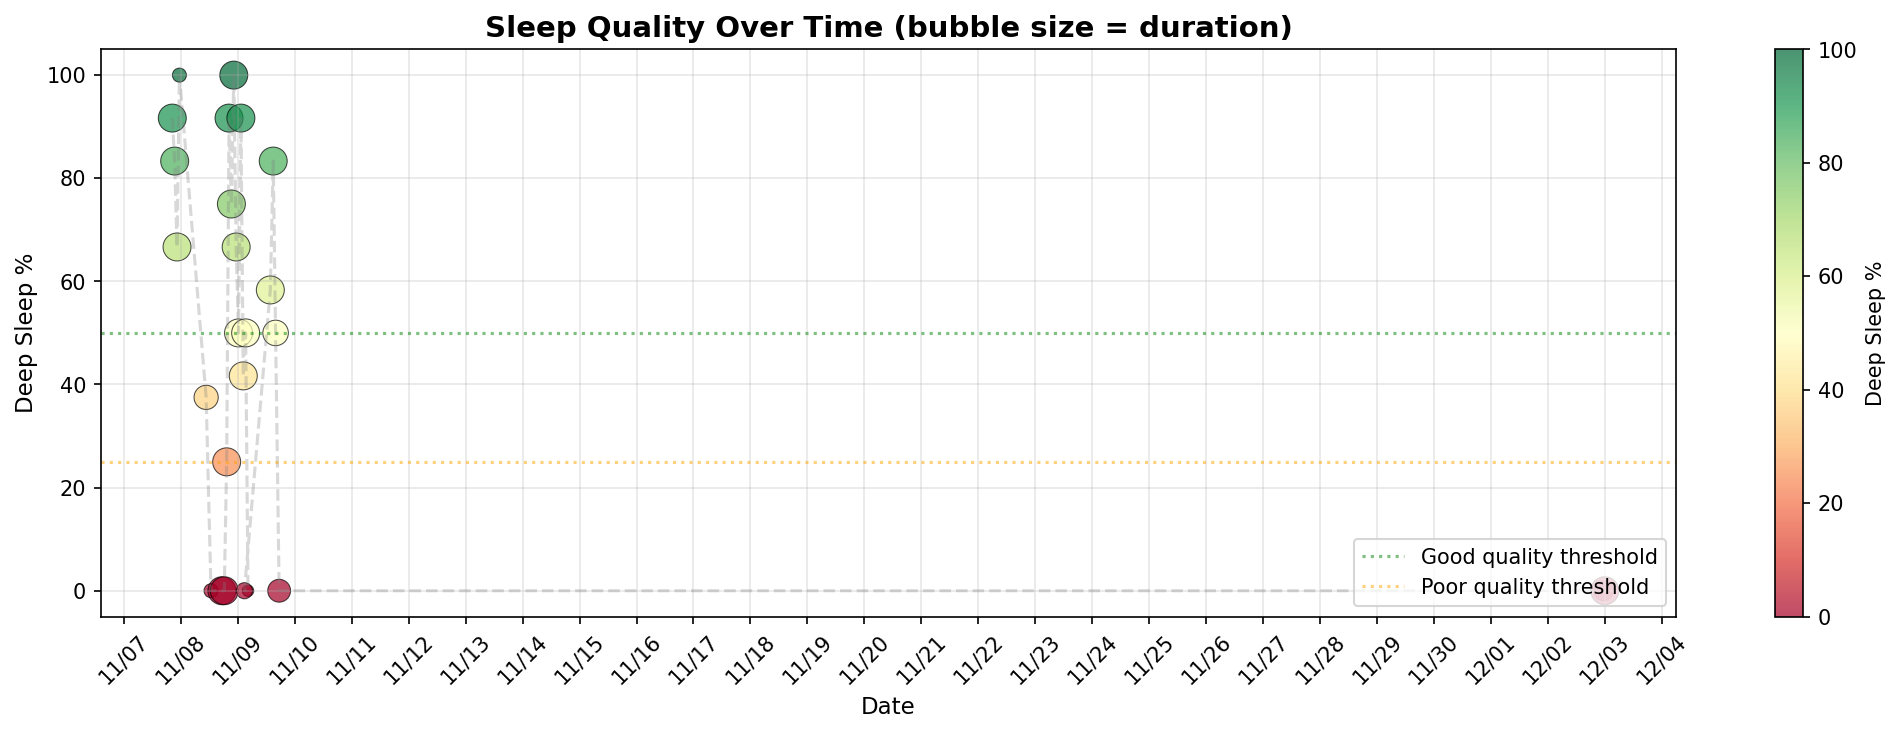
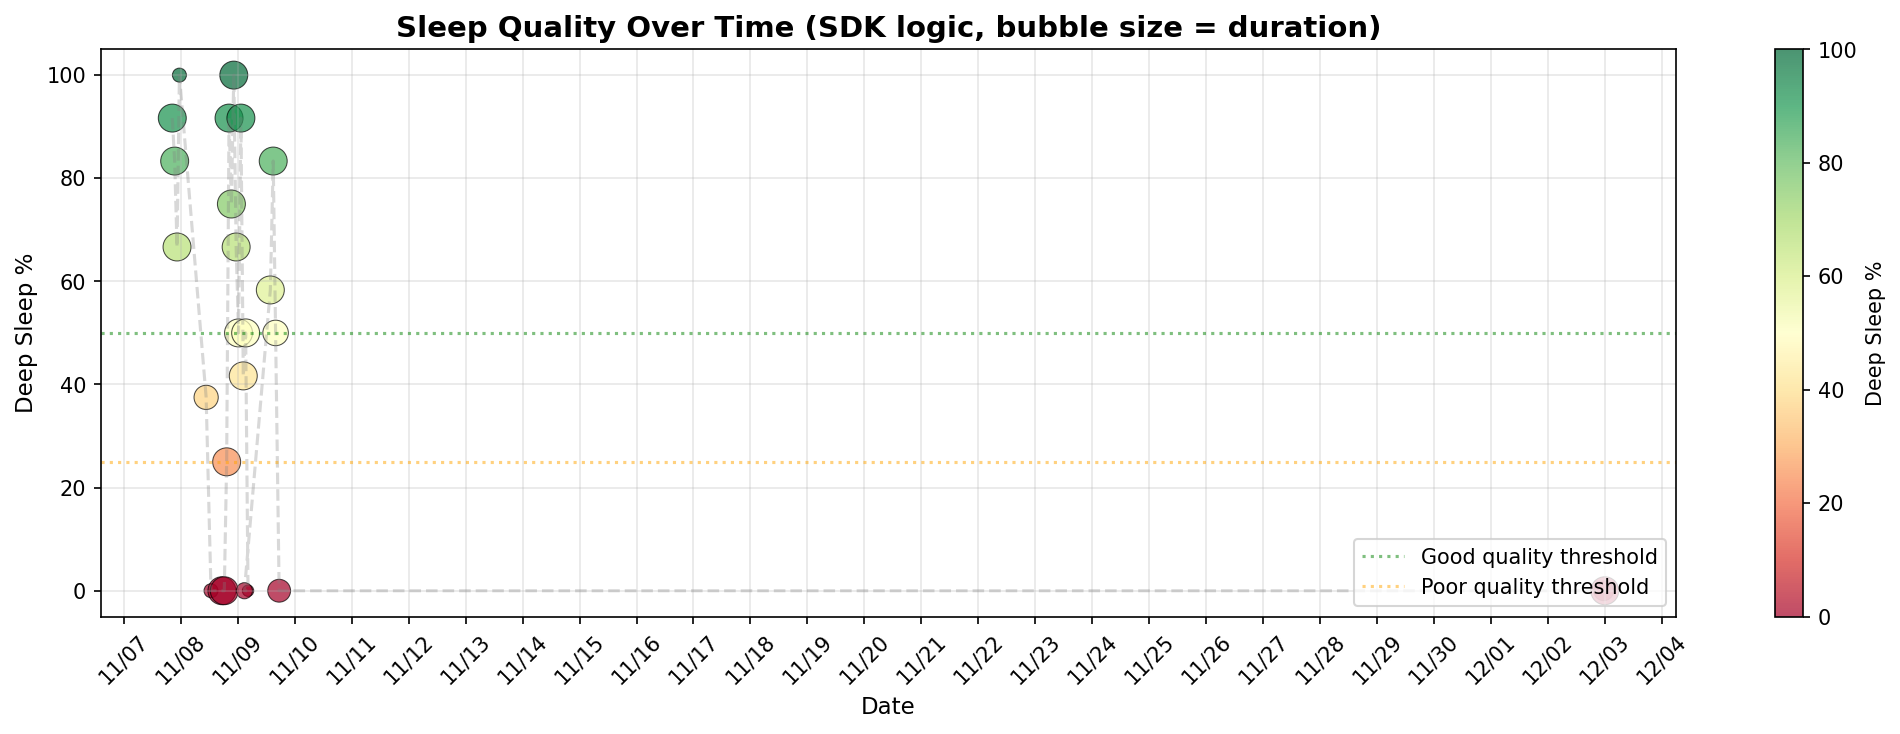
Update sleep quality timeline and daily summary plots to use SDK logic for deep sleep calculations

Changed region(s): [[0.1863, 0.0, 0.7453, 0.0599]]

diff --git a/sleep/plot_sleep.py b/sleep/plot_sleep.py
@@ -151,14 +151,14 @@ def plot_sleep_stages_bar(df: pd.DataFrame, output_path: str = None):
 
 def plot_sleep_quality_timeline(df: pd.DataFrame, output_path: str = None):
     """
-    Timeline del sonno con qualità (% deep sleep)
+    Timeline del sonno con qualità (% deep sleep) - usando logica SDK
     """
     fig, ax = plt.subplots(figsize=(14, 5))
     
-    # Calcola percentuale deep sleep
-    df['total_sleep'] = df['deep_sleep_min'] + df['light_sleep_min']
+    # Usa i dati ricalcolati con logica SDK
+    df['total_sleep'] = df['deep_sleep_sdk'] + df['light_sleep_sdk']
     df['deep_pct'] = np.where(df['total_sleep'] > 0, 
-                               df['deep_sleep_min'] / df['total_sleep'] * 100, 0)
+                               df['deep_sleep_sdk'] / df['total_sleep'] * 100, 0)
     
     # Colore basato sulla qualità
     colors = plt.cm.RdYlGn(df['deep_pct'] / 100)
@@ -173,7 +173,7 @@ def plot_sleep_quality_timeline(df: pd.DataFrame, output_path: str = None):
     
     ax.set_xlabel('Date', fontsize=11)
     ax.set_ylabel('Deep Sleep %', fontsize=11)
-    ax.set_title('Sleep Quality Over Time (bubble size = duration)', fontsize=14, fontweight='bold')
+    ax.set_title('Sleep Quality Over Time (SDK logic, bubble size = duration)', fontsize=14, fontweight='bold')
     
     # Colorbar
     cbar = plt.colorbar(scatter, ax=ax)
@@ -203,12 +203,13 @@ def plot_daily_summary(df: pd.DataFrame, output_path: str = None):
     """
     Sommario per NOTTE di sonno (non per giorno solare)
     Una notte = sonno tra 18:00 giorno X e 18:00 giorno X+1
+    Usa classificazione fasi SDK (basata su consecutività zeri)
     """
-    # Aggrega per NOTTE (non per giorno solare)
+    # Aggrega per NOTTE usando dati SDK
     nightly = df.groupby('sleep_night').agg({
-        'deep_sleep_min': 'sum',
-        'light_sleep_min': 'sum',
-        'awake_min': 'sum',
+        'deep_sleep_sdk': 'sum',
+        'light_sleep_sdk': 'sum',
+        'awake_sdk': 'sum',
         'duration_minutes': 'sum'
     }).reset_index()
     
@@ -238,18 +239,18 @@ def plot_daily_summary(df: pd.DataFrame, output_path: str = None):
             ax1.text(bar.get_x() + bar.get_width()/2, bar.get_height() + 0.1, 
                     f'{hours:.1f}h', ha='center', va='bottom', fontsize=9)
     
-    # Grafico 2: Composizione sonno (stacked)
+    # Grafico 2: Composizione sonno (stacked) - usando dati SDK
     ax2 = axes[1]
-    ax2.bar(x_pos, nightly['deep_sleep_min']/60, label='Deep', color='#1a237e', alpha=0.9)
-    ax2.bar(x_pos, nightly['light_sleep_min']/60, bottom=nightly['deep_sleep_min']/60,
+    ax2.bar(x_pos, nightly['deep_sleep_sdk']/60, label='Deep', color='#1a237e', alpha=0.9)
+    ax2.bar(x_pos, nightly['light_sleep_sdk']/60, bottom=nightly['deep_sleep_sdk']/60,
             label='Light', color='#42a5f5', alpha=0.9)
-    ax2.bar(x_pos, nightly['awake_min']/60, 
-            bottom=(nightly['deep_sleep_min'] + nightly['light_sleep_min'])/60,
+    ax2.bar(x_pos, nightly['awake_sdk']/60, 
+            bottom=(nightly['deep_sleep_sdk'] + nightly['light_sleep_sdk'])/60,
             label='Awake', color='#ff7043', alpha=0.9)
     
     ax2.set_xlabel('Night', fontsize=11)
     ax2.set_ylabel('Hours', fontsize=11)
-    ax2.set_title('Sleep Composition by Night', fontsize=14, fontweight='bold')
+    ax2.set_title('Sleep Composition by Night (SDK classification)', fontsize=14, fontweight='bold')
     ax2.legend(loc='upper right')
     ax2.grid(axis='y', alpha=0.3)
     
